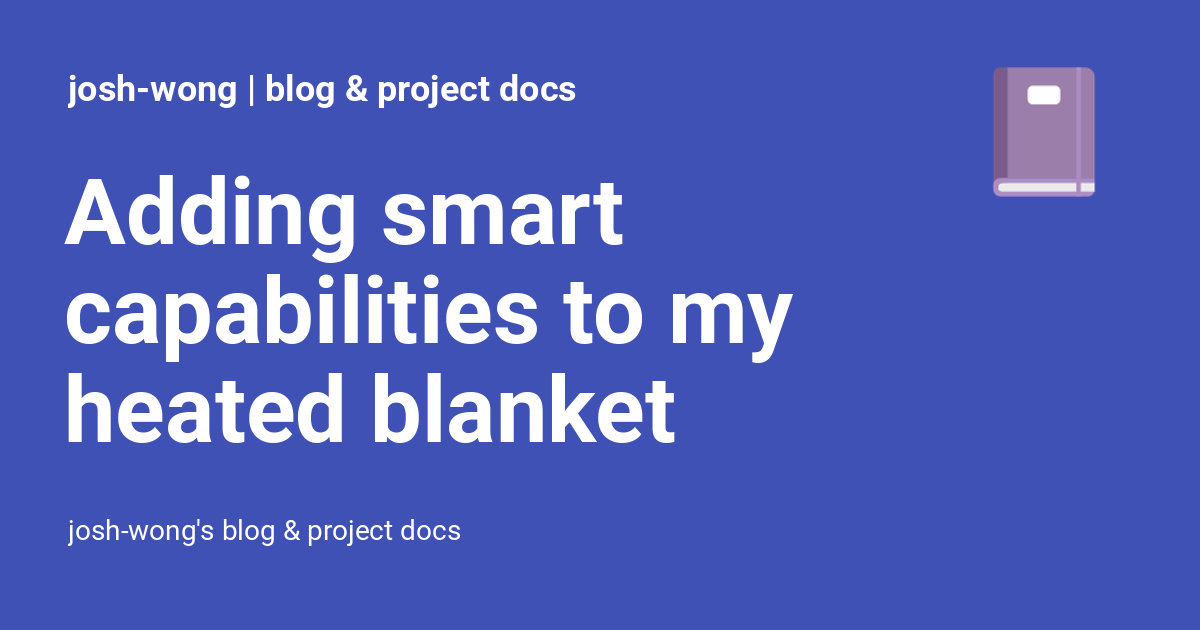
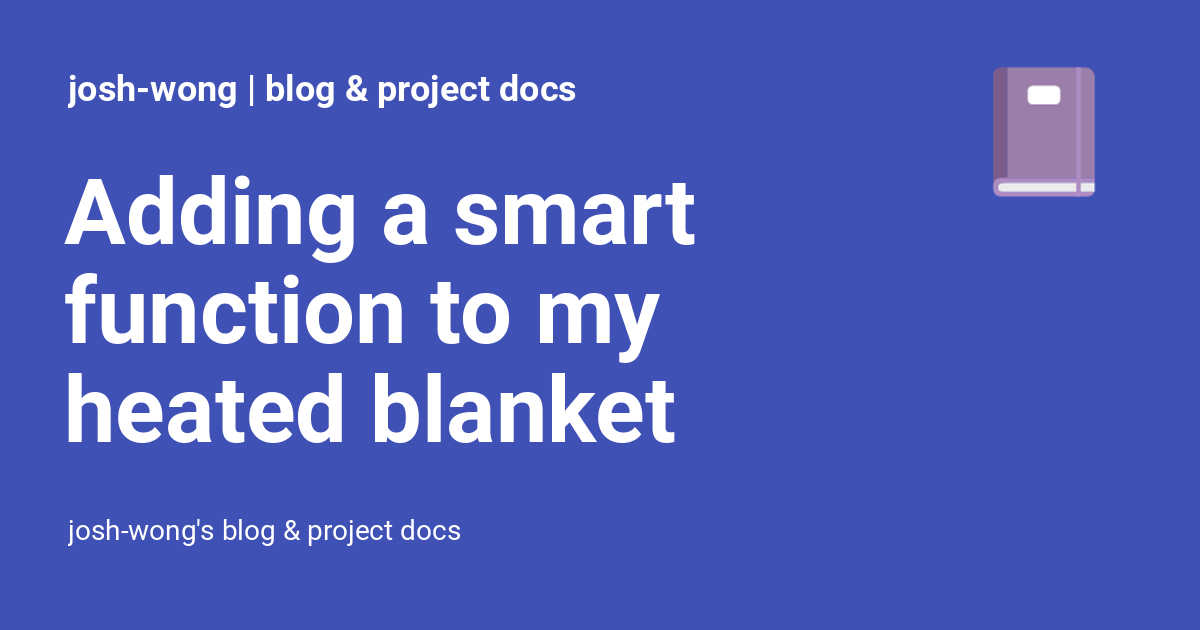
Deployed 011ff0d with MkDocs version: 1.4.1

Changed region(s): [[0.0308, 0.4222, 0.6783, 0.573], [0.3083, 0.2714, 0.5858, 0.3921]]

diff --git a/blog/2022/10/adding-a-smart-function-to-my-heated-blanket/index.html b/blog/2022/10/adding-a-smart-function-to-my-heated-blanket/index.html
@@ -10,7 +10,7 @@
       
       
       
-        <link rel="canonical" href="https://josh-wong.github.io/blog/2022/10/adding-smart-capabilities-to-my-heated-blanket/">
+        <link rel="canonical" href="https://josh-wong.github.io/blog/2022/10/adding-a-smart-function-to-my-heated-blanket/">
       
       
         
@@ -24,7 +24,7 @@
     
     
       
-        <title>Adding smart capabilities to my heated blanket - josh-wong | blog & project docs</title>
+        <title>Adding a smart function to my heated blanket - josh-wong | blog & project docs</title>
       
     
     
@@ -110,7 +110,7 @@
       
         <meta  property="og:type"  content="website" >
       
-        <meta  property="og:title"  content="Adding smart capabilities to my heated blanket - josh-wong | blog & project docs" >
+        <meta  property="og:title"  content="Adding a smart function to my heated blanket - josh-wong | blog & project docs" >
       
         <meta  property="og:description"  content="josh-wong's blog & project docs" >
       
@@ -122,11 +122,11 @@
       
         <meta  property="og:image:height"  content="630" >
       
-        <meta  property="og:url"  content="https://josh-wong.github.io/blog/2022/10/adding-smart-capabilities-to-my-heated-blanket/" >
+        <meta  property="og:url"  content="https://josh-wong.github.io/blog/2022/10/adding-a-smart-function-to-my-heated-blanket/" >
       
         <meta  name="twitter:card"  content="summary_large_image" >
       
-        <meta  name="twitter:title"  content="Adding smart capabilities to my heated blanket - josh-wong | blog & project docs" >
+        <meta  name="twitter:title"  content="Adding a smart function to my heated blanket - josh-wong | blog & project docs" >
       
         <meta  name="twitter:description"  content="josh-wong's blog & project docs" >
       
@@ -153,7 +153,7 @@
     <div data-md-component="skip">
       
         
-        <a href="#adding-smart-capabilities-to-my-heated-blanket" class="md-skip">
+        <a href="#adding-a-smart-function-to-my-heated-blanket" class="md-skip">
           Skip to content
         </a>
       
@@ -187,7 +187,7 @@
         <div class="md-header__topic" data-md-component="header-topic">
           <span class="md-ellipsis">
             
-              Adding smart capabilities to my heated blanket
+              Adding a smart function to my heated blanket
             
           </span>
         </div>
@@ -1205,7 +1205,7 @@
   </a>
 
 
-<h1 id="adding-smart-capabilities-to-my-heated-blanket">Adding smart capabilities to my heated blanket<a class="headerlink" href="#adding-smart-capabilities-to-my-heated-blanket" title="Permanent link">&para;</a></h1>
+<h1 id="adding-a-smart-function-to-my-heated-blanket">Adding a smart function to my heated blanket<a class="headerlink" href="#adding-a-smart-function-to-my-heated-blanket" title="Permanent link">&para;</a></h1>
 <p>Every autumn and winter, I avoid turning on the HVAC units and space heaters in my apartment until absolutely necessary. The reason I wait is because those units:</p>
 <ul>
 <li>Are not energy efficient, which causes environmental waste and a higher electricity bill.</li>

diff --git a/blog/archive/2022/index.html b/blog/archive/2022/index.html
@@ -1130,7 +1130,7 @@
     </div>
   </header>
   <div class="md-post__content md-typeset">
-    <h2>Adding smart capabilities to my heated blanket</h2>
+    <h2>Adding a smart function to my heated blanket</h2>
 <p>Every autumn and winter, I avoid turning on the HVAC units and space heaters in my apartment until absolutely necessary. The reason I wait is because those units:</p>
 <ul>
 <li>Are not energy efficient, which causes environmental waste and a higher electricity bill.</li>
@@ -1140,7 +1140,7 @@
 <p>To address these concerns, I decided to buy a heated blanket and make it "smart."</p>
 
     <nav class="md-post__action">
-      <a href="../../2022/10/adding-smart-capabilities-to-my-heated-blanket/">
+      <a href="../../2022/10/adding-a-smart-function-to-my-heated-blanket/">
         Continue reading
       </a>
     </nav>

diff --git a/blog/category/automation/index.html b/blog/category/automation/index.html
@@ -1130,7 +1130,7 @@
     </div>
   </header>
   <div class="md-post__content md-typeset">
-    <h2>Adding smart capabilities to my heated blanket</h2>
+    <h2>Adding a smart function to my heated blanket</h2>
 <p>Every autumn and winter, I avoid turning on the HVAC units and space heaters in my apartment until absolutely necessary. The reason I wait is because those units:</p>
 <ul>
 <li>Are not energy efficient, which causes environmental waste and a higher electricity bill.</li>
@@ -1140,7 +1140,7 @@
 <p>To address these concerns, I decided to buy a heated blanket and make it "smart."</p>
 
     <nav class="md-post__action">
-      <a href="../../2022/10/adding-smart-capabilities-to-my-heated-blanket/">
+      <a href="../../2022/10/adding-a-smart-function-to-my-heated-blanket/">
         Continue reading
       </a>
     </nav>

diff --git a/blog/category/iot/index.html b/blog/category/iot/index.html
@@ -1130,7 +1130,7 @@
     </div>
   </header>
   <div class="md-post__content md-typeset">
-    <h2>Adding smart capabilities to my heated blanket</h2>
+    <h2>Adding a smart function to my heated blanket</h2>
 <p>Every autumn and winter, I avoid turning on the HVAC units and space heaters in my apartment until absolutely necessary. The reason I wait is because those units:</p>
 <ul>
 <li>Are not energy efficient, which causes environmental waste and a higher electricity bill.</li>
@@ -1140,7 +1140,7 @@
 <p>To address these concerns, I decided to buy a heated blanket and make it "smart."</p>
 
     <nav class="md-post__action">
-      <a href="../../2022/10/adding-smart-capabilities-to-my-heated-blanket/">
+      <a href="../../2022/10/adding-a-smart-function-to-my-heated-blanket/">
         Continue reading
       </a>
     </nav>

diff --git a/blog/category/life/index.html b/blog/category/life/index.html
@@ -1130,7 +1130,7 @@
     </div>
   </header>
   <div class="md-post__content md-typeset">
-    <h2>Adding smart capabilities to my heated blanket</h2>
+    <h2>Adding a smart function to my heated blanket</h2>
 <p>Every autumn and winter, I avoid turning on the HVAC units and space heaters in my apartment until absolutely necessary. The reason I wait is because those units:</p>
 <ul>
 <li>Are not energy efficient, which causes environmental waste and a higher electricity bill.</li>
@@ -1140,7 +1140,7 @@
 <p>To address these concerns, I decided to buy a heated blanket and make it "smart."</p>
 
     <nav class="md-post__action">
-      <a href="../../2022/10/adding-smart-capabilities-to-my-heated-blanket/">
+      <a href="../../2022/10/adding-a-smart-function-to-my-heated-blanket/">
         Continue reading
       </a>
     </nav>

diff --git a/blog/index.html b/blog/index.html
@@ -1124,7 +1124,7 @@
     </div>
   </header>
   <div class="md-post__content md-typeset">
-    <h2>Adding smart capabilities to my heated blanket</h2>
+    <h2>Adding a smart function to my heated blanket</h2>
 <p>Every autumn and winter, I avoid turning on the HVAC units and space heaters in my apartment until absolutely necessary. The reason I wait is because those units:</p>
 <ul>
 <li>Are not energy efficient, which causes environmental waste and a higher electricity bill.</li>
@@ -1134,7 +1134,7 @@
 <p>To address these concerns, I decided to buy a heated blanket and make it "smart."</p>
 
     <nav class="md-post__action">
-      <a href="2022/10/adding-smart-capabilities-to-my-heated-blanket/">
+      <a href="2022/10/adding-a-smart-function-to-my-heated-blanket/">
         Continue reading
       </a>
     </nav>

diff --git a/blog/2022/10/recap-of-my-participation-in-the-2022-tell-21007-step-up-challenge/index.html b/blog/2022/10/recap-of-my-participation-in-the-2022-tell-21007-step-up-challenge/index.html
@@ -1353,13 +1353,13 @@
       
       
         
-        <a href="../adding-smart-capabilities-to-my-heated-blanket/" class="md-footer__link md-footer__link--next" aria-label="Next: Adding smart capabilities to my heated blanket" rel="next">
+        <a href="../adding-a-smart-function-to-my-heated-blanket/" class="md-footer__link md-footer__link--next" aria-label="Next: Adding a smart function to my heated blanket" rel="next">
           <div class="md-footer__title">
             <div class="md-ellipsis">
               <span class="md-footer__direction">
                 Next
               </span>
-              Adding smart capabilities to my heated blanket
+              Adding a smart function to my heated blanket
             </div>
           </div>
           <div class="md-footer__button md-icon">
